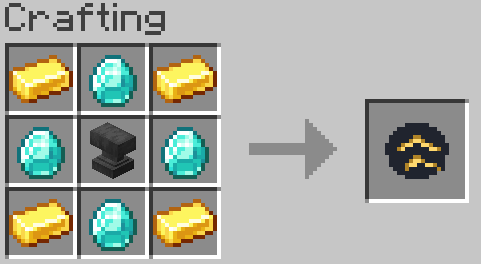
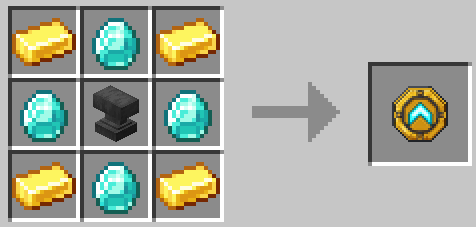
update item png

diff --git a/AGENTS.md b/AGENTS.md
@@ -59,7 +59,7 @@ superupgrader/
 │   │       │   ├── items/upgrader.json       # Modern 1.21.4+ item model definition
 │   │       │   ├── lang/*.json               # Multilingual translations (21 locales supported)
 │   │       │   ├── models/item/upgrader.json # Item model JSON
-│   │       │   └── textures/item/upgrader.png# Original station item texture
+│   │       │   └── textures/item/upgrader.png# Super Upgrader station item texture
 │   │       ├── data/superupgrader/advancement/recipes/
 │   │       │   └── upgrader_item.json        # Unlocks the recipe on the player's first server tick
 │   │       ├── data/superupgrader/recipe/

diff --git a/README.md b/README.md
@@ -39,11 +39,6 @@ Craft the Super Upgrader with 4 Gold Ingots, 4 Diamonds, and an Anvil:
 
 ![Super Upgrader crafting recipe: four gold ingots in the corners, four diamonds on the edges, and an anvil in the center](readmeAssets/recipe.png)
 
-| | | |
-| :---: | :---: | :---: |
-| Gold Ingot | Diamond | Gold Ingot |
-| Diamond | Anvil | Diamond |
-| Gold Ingot | Diamond | Gold Ingot |
 
 Hold the item and **right-click** to open the station.
 
